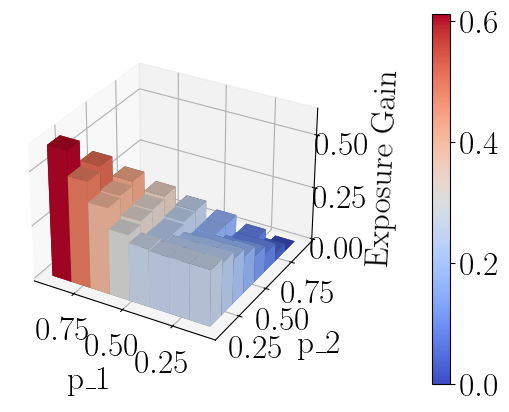
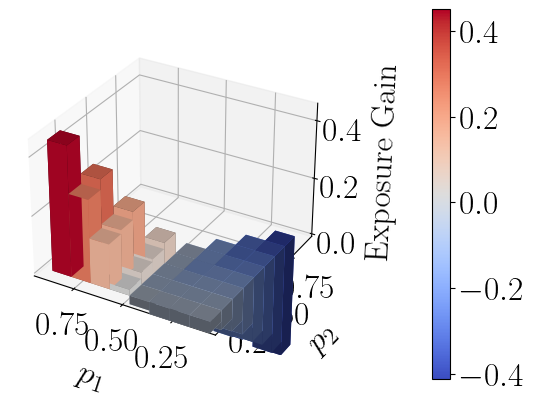
finalized heatmaps

diff --git a/experiments/dataExperiments/src/visualize.py b/experiments/dataExperiments/src/visualize.py
@@ -88,8 +88,8 @@ def plot3DFigure(xPos, yPos, zHeight, zLabel, filename):
     colors = cmap(norm(dz))
     ax1.bar3d(xpos, ypos, zpos, dx, dy, dz, color=colors)
 # axis labels
-    ax1.set_xlabel('p\_1', labelpad=15)
-    ax1.set_ylabel('p\_2', labelpad=15)
+    ax1.set_xlabel('$p_1$', labelpad=15)
+    ax1.set_ylabel('$p_2$', labelpad=15)
     ax1.set_zlabel(zLabel, labelpad=10)
     ax1.invert_xaxis()
 # colorbar
@@ -110,17 +110,26 @@ def prepareAndSaveFigures(filenamePattern, kString):
         minProp2Val = float(minProp2String[:-1])
         expGainValGroup1 = evalData.loc[evalData["group"] == 1, "expGain"].iloc[0]
         expGainValGroup2 = evalData.loc[evalData["group"] == 2, "expGain"].iloc[0]
+        expGainGroupNPVal = evalData.loc[evalData["group"] == 0, "expGain"].iloc[0]
         ndcgLossVal = evalData["ndcgLoss"].min()
-        tempDict = dict(minProp1=minProp1Val, minProp2=minProp2Val, expGainGroup1=expGainValGroup1, expGainGroup2=expGainValGroup2, ndcgLoss=ndcgLossVal)
+        tempDict = dict(minProp1=minProp1Val,
+                        minProp2=minProp2Val,
+                        expGainGroupNP=expGainGroupNPVal,
+                        expGainGroup1=expGainValGroup1,
+                        expGainGroup2=expGainValGroup2,
+                        ndcgLoss=ndcgLossVal)
         data.append(tempDict)
 
-    dataToPlot = pd.DataFrame(data, columns=["minProp1", "minProp2", "expGainGroup1", "expGainGroup2", "ndcgLoss"])
+    dataToPlot = pd.DataFrame(data, columns=["minProp1", "minProp2", "expGainGroupNP", "expGainGroup1", "expGainGroup2", "ndcgLoss"])
     dataToPlot.sort_values(["minProp1", "minProp2"], inplace=True)
     # normalize exposure data
-    minGain = dataToPlot[["expGainGroup1", "expGainGroup2"]].min().min()
-    maxGain = dataToPlot[["expGainGroup1", "expGainGroup2"]].max().max()
-    dataToPlot["expGainGroup1"] = (dataToPlot["expGainGroup1"] - minGain) / (maxGain - minGain)
-    dataToPlot["expGainGroup2"] = (dataToPlot["expGainGroup2"] - minGain) / (maxGain - minGain)
+#     minGain = dataToPlot[["expGainGroup1", "expGainGroup2"]].min().min()
+    maxGain = dataToPlot[["expGainGroup1", "expGainGroup2", "expGainGroupNP"]].max().max()
+#     dataToPlot["expGainGroup1"] = (dataToPlot["expGainGroup1"] - minGain) / (maxGain - minGain)
+#     dataToPlot["expGainGroup2"] = (dataToPlot["expGainGroup2"] - minGain) / (maxGain - minGain)
+    dataToPlot["expGainGroup1"] = dataToPlot["expGainGroup1"] / maxGain
+    dataToPlot["expGainGroup2"] = dataToPlot["expGainGroup2"] / maxGain
+    dataToPlot["expGainGroupNP"] = dataToPlot["expGainGroupNP"] / maxGain
 
     plot3DFigure(dataToPlot["minProp1"].values,
                  dataToPlot["minProp2"].values,
@@ -140,6 +149,11 @@ def prepareAndSaveFigures(filenamePattern, kString):
                  "NDCG loss",
                  "../results/COMPAS/evalAndPlots/age/" + kString + "-barplot-ndcgLoss.png")
 
+    plotHeatmap(dataToPlot,
+                "expGainGroupNP",
+                "Exposure Gain",
+                 "../results/COMPAS/evalAndPlots/age/" + kString + "-heatmap-expGainGroupNP.png",
+                 valfmt="{x:.3f}")
     plotHeatmap(dataToPlot,
                 "expGainGroup1",
                 "Exposure Gain",
@@ -170,11 +184,11 @@ def plotHeatmap(dataToPlot, heatmapValueStr, cbarlabel, filename, **annotationKW
             else:
                 heatmapFrame.at[rowName, colName] = val[0]
 
-    fig = plt.figure(figsize=(16, 16))
+    fig = plt.figure(figsize=(11, 11))
     ax = fig.add_subplot(111)
-    im, _ = heatmap(heatmapFrame, heatmapFrame.index, heatmapFrame.columns, ax=ax,
-                    cmap="coolwarm", cbarlabel=cbarlabel, vmin=0, vmax=1)
-    annotate_heatmap(im, thresholds=[0.15, 0.85], **annotationKW)
+    im = heatmap(heatmapFrame, heatmapFrame.index, heatmapFrame.columns, ax=ax,
+                    cmap="coolwarm", cbarlabel=cbarlabel, vmin=-1, vmax=1)
+    annotate_heatmap(im, thresholds=[-0.8, 0.8], **annotationKW)
     plt.savefig(filename, dpi=100, bbox_inches='tight')
 
 
@@ -218,8 +232,8 @@ def heatmap(data, row_labels, col_labels, ax=None,
     im = ax.imshow(data, **kwargs)
 
     # Create colorbar
-    cbar = ax.figure.colorbar(im, ax=ax, **cbar_kw)
-    cbar.ax.set_ylabel(cbarlabel, rotation=-90, va="bottom")
+#     cbar = ax.figure.colorbar(im, ax=ax, **cbar_kw)
+#     cbar.ax.set_ylabel(cbarlabel, rotation=-90, va="bottom")
 
     # We want to show all ticks...
     ax.set_xticks(np.arange(data.shape[1]))
@@ -247,10 +261,10 @@ def heatmap(data, row_labels, col_labels, ax=None,
 
     ax.invert_yaxis()
 
-    ax.set_xlabel('p\_{1}', labelpad=15)
-    ax.set_ylabel('p\_{2}', labelpad=15)
+    ax.set_xlabel('$p_{1}$', labelpad=15)
+    ax.set_ylabel('$p_{2}$', labelpad=15)
 
-    return im, cbar
+    return im  # , cbar
 
 
 def annotate_heatmap(im, data=None, valfmt="{x:.2f}",
